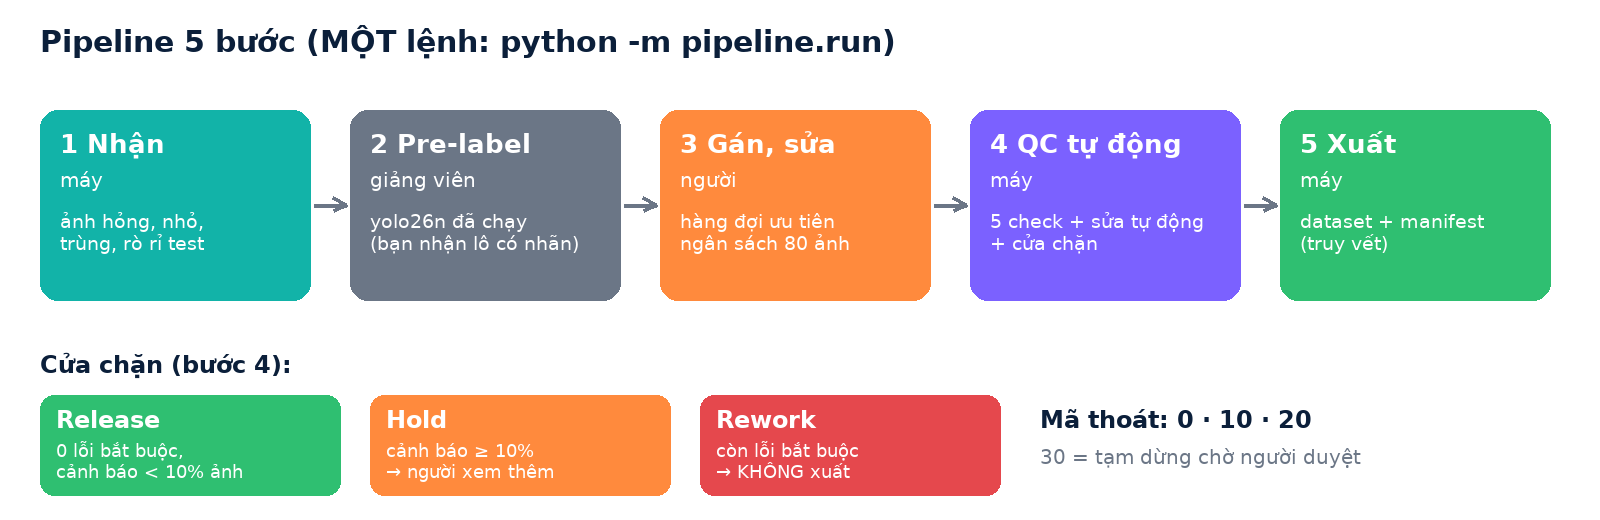
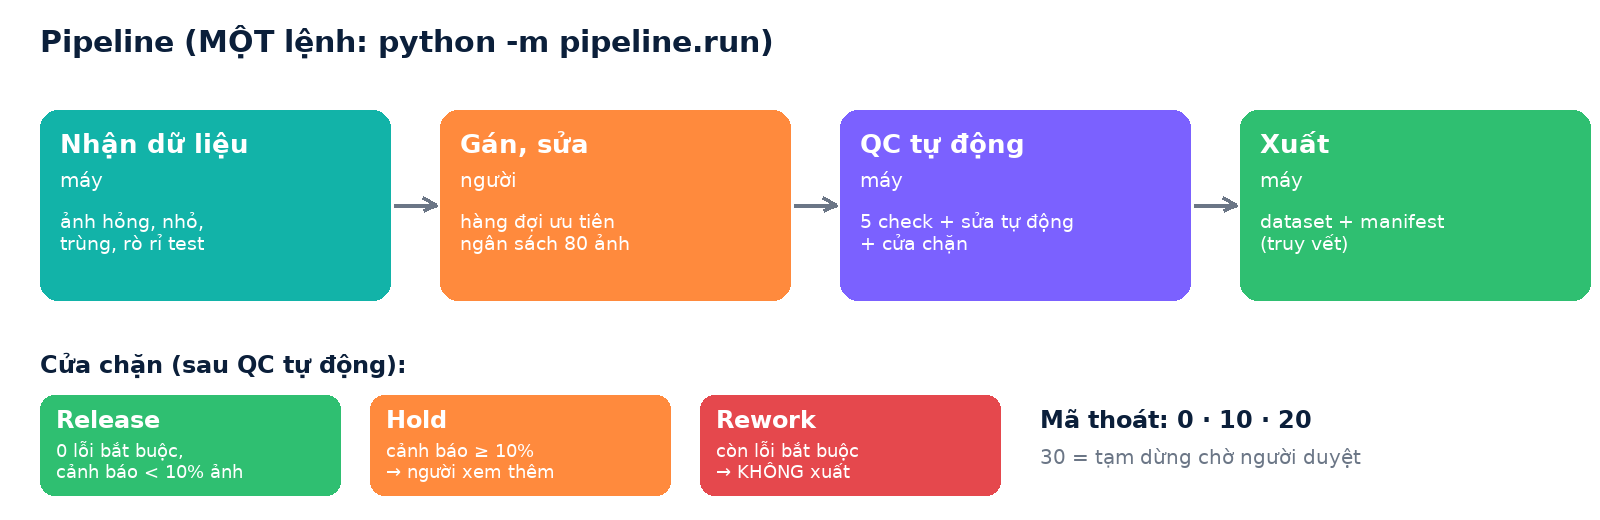
README/hình: bỏ bước pre-label khỏi sơ đồ pipeline

diff --git a/docs/assets/make_figures.py b/docs/assets/make_figures.py
@@ -93,7 +93,7 @@ def hero():
         rrect(d, (x, 380, x + w, 424), 22, fill=c)
         text(d, (x + 18, 391), name, 20, "white", True)
         x += w + 14
-    text(d, (70, 455), "224 ảnh · 4 lớp car/person/truck/bus · 22 mã lỗi · yolo26n", 20, "#9fc7cf")
+    text(d, (70, 455), "224 ảnh · 4 lớp car/person/truck/bus · 22 mã lỗi", 20, "#9fc7cf")
     for k, s in enumerate(sample(3)):
         t = fit(s, 330, 220)
         im.paste(t, (860 + (k % 2) * 350, 30 + (k // 2) * 250 + (k % 2) * 40))
@@ -104,20 +104,20 @@ def pipeline():
     W, H = 1600, 520
     im = Image.new("RGB", (W, H), "white")
     d = ImageDraw.Draw(im)
-    text(d, (40, 24), "Pipeline 5 bước (MỘT lệnh: python -m pipeline.run)", 30, NAVY, True)
-    steps = [("1 Nhận", "máy", "ảnh hỏng, nhỏ,\ntrùng, rò rỉ test", TEAL), ("2 Pre-label", "giảng viên", "yolo26n đã chạy\n(bạn nhận lô có nhãn)", GRAY),
-             ("3 Gán, sửa", "người", "hàng đợi ưu tiên\nngân sách 80 ảnh", ORANGE), ("4 QC tự động", "máy", "5 check + sửa tự động\n+ cửa chặn", PURPLE), ("5 Xuất", "máy", "dataset + manifest\n(truy vết)", GREEN)]
-    x0, y0, w, h, gap = 40, 110, 270, 190, 40
+    text(d, (40, 24), "Pipeline (MỘT lệnh: python -m pipeline.run)", 30, NAVY, True)
+    steps = [("Nhận dữ liệu", "máy", "ảnh hỏng, nhỏ,\ntrùng, rò rỉ test", TEAL),
+             ("Gán, sửa", "người", "hàng đợi ưu tiên\nngân sách 80 ảnh", ORANGE), ("QC tự động", "máy", "5 check + sửa tự động\n+ cửa chặn", PURPLE), ("Xuất", "máy", "dataset + manifest\n(truy vết)", GREEN)]
+    x0, y0, w, h, gap = 40, 110, 350, 190, 50
     for i, (t, who, sub, c) in enumerate(steps):
         x = x0 + i * (w + gap)
         rrect(d, (x, y0, x + w, y0 + h), 18, fill=c)
         text(d, (x + 20, y0 + 18), t, 26, "white", True)
         text(d, (x + 20, y0 + 58), who, 20, "#ffffffcc")
         text(d, (x + 20, y0 + 100), sub, 19, "white")
-        if i < 4:
+        if i < 3:
             arrow(d, (x + w + 4, y0 + h // 2), (x + w + gap - 4, y0 + h // 2))
     # cửa chặn
-    text(d, (40, 350), "Cửa chặn (bước 4):", 24, NAVY, True)
+    text(d, (40, 350), "Cửa chặn (sau QC tự động):", 24, NAVY, True)
     for i, (t, sub, c) in enumerate([("Release", "0 lỗi bắt buộc,\ncảnh báo < 10% ảnh", GREEN), ("Hold", "cảnh báo ≥ 10%\n→ người xem thêm", ORANGE), ("Rework", "còn lỗi bắt buộc\n→ KHÔNG xuất", RED)]):
         x = 40 + i * 330
         rrect(d, (x, 395, x + 300, 495), 14, fill=c)

diff --git a/README.md b/README.md
@@ -20,19 +20,18 @@ Bạn nhận một lô **224 ảnh** đã được gán nhãn sẵn. Trong lô c
 Việc của bạn là **xây một pipeline tự động** — một lệnh chạy từ ảnh thô đến bộ dữ liệu sạch — rồi **chứng minh bằng thí nghiệm**
 (train trên Google Colab) rằng dữ liệu sau pipeline cho model tốt hơn dữ liệu gốc.
 
-![Pipeline 5 bước và cửa chặn](docs/assets/pipeline.png)
+![Pipeline và cửa chặn](docs/assets/pipeline.png)
 
 <details>
 <summary><b>Sơ đồ chi tiết (mermaid)</b></summary>
 
 ```mermaid
 flowchart LR
-  P["2 · Pre-label yolo26n<br/><i>giảng viên đã chạy</i><br/>(lô tới tay bạn đã có nhãn)"] -.-> A
-  A["1 · Nhận dữ liệu<br/><i>máy</i>: ảnh hỏng, kích thước,<br/>trùng, rò rỉ test"] --> C["4 · QC tự động<br/><i>máy</i>: 5 check + sửa tự động<br/>+ cửa chặn (lặp nhiều vòng)"]
+  A["Nhận dữ liệu<br/><i>máy</i>: ảnh hỏng, kích thước,<br/>trùng, rò rỉ test"] --> C["QC tự động<br/><i>máy</i>: 5 check + sửa tự động<br/>+ cửa chặn (lặp nhiều vòng)"]
   C -->|lỗi bắt buộc| X["Rework<br/>chặn pipeline"]
-  C -->|cảnh báo| D["3 · Gán, sửa<br/><i>người</i>: hàng đợi<br/>ưu tiên"]
+  C -->|cảnh báo| D["Gán, sửa<br/><i>người</i>: hàng đợi<br/>ưu tiên"]
   D --> C
-  C -->|đạt cửa chặn| E["5 · Xuất dataset<br/><i>máy</i>: manifest + version"]
+  C -->|đạt cửa chặn| E["Xuất dataset<br/><i>máy</i>: manifest + version"]
   E --> F["Train Colab<br/>raw vs clean"]
 ```
 </details>
